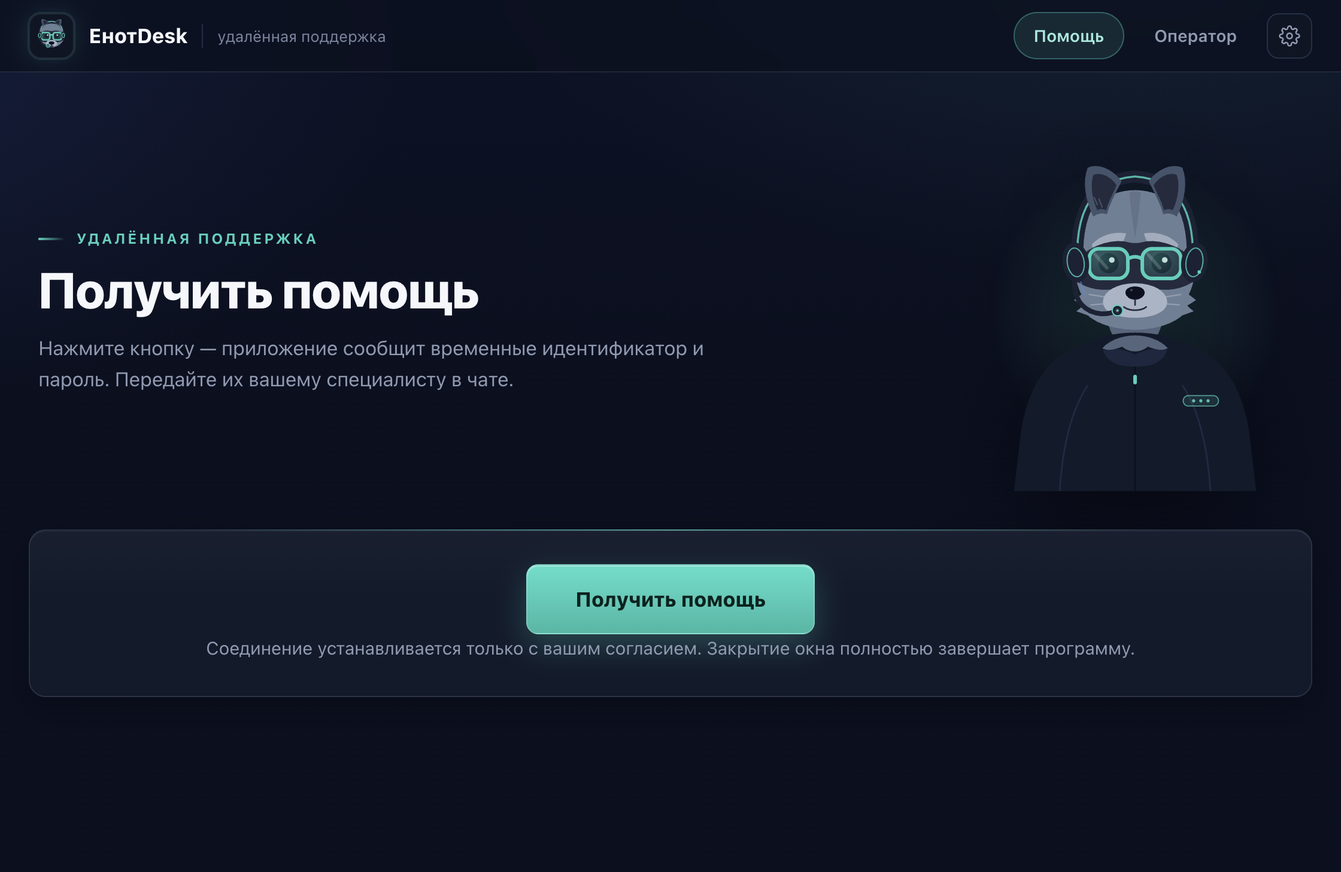
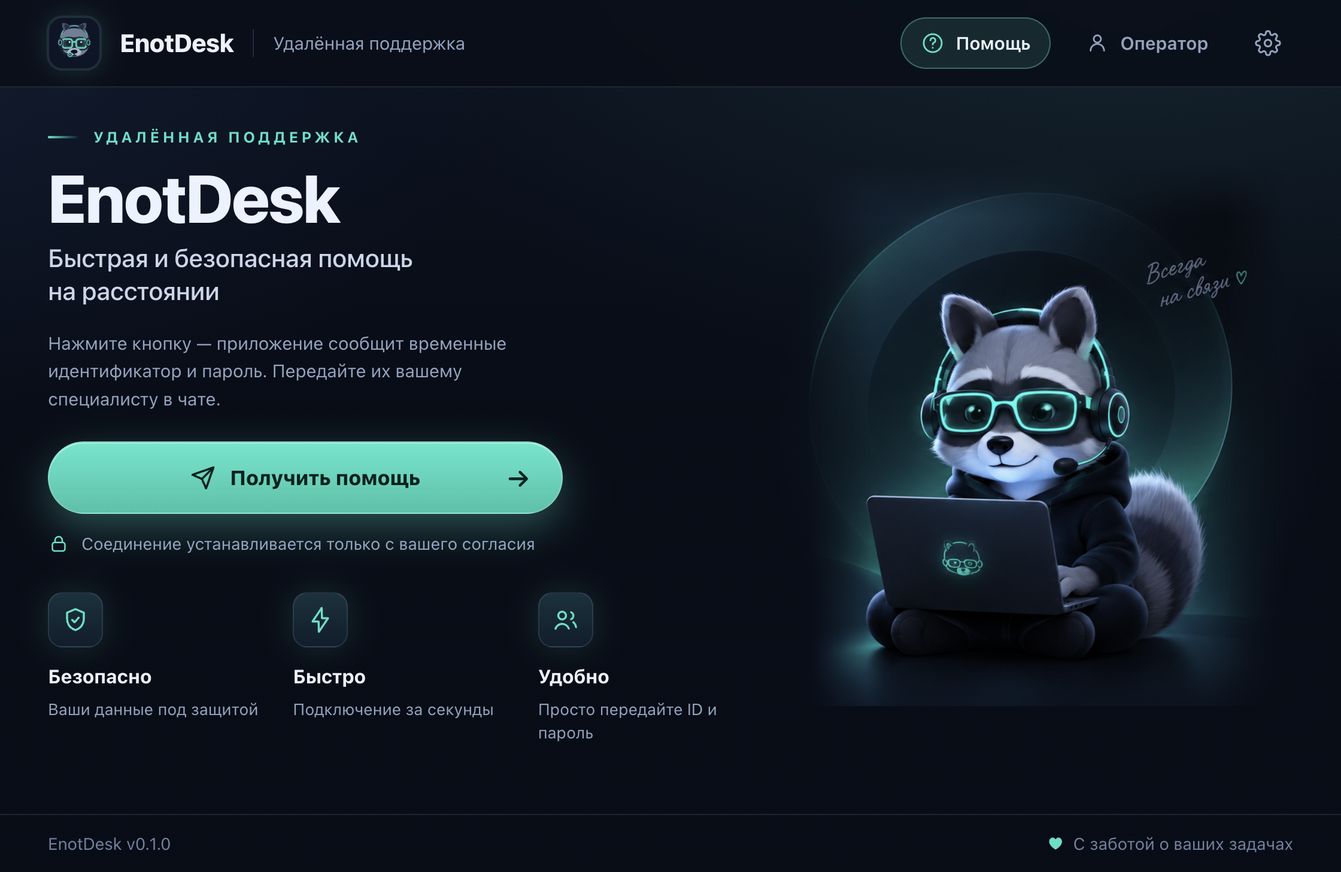
T06: выкладка и приёмка — сайт и клиент обновлены, слепая проверка, память, ADR 0009-0012

diff --git a/.autopilot/state.js b/.autopilot/state.js
@@ -9,8 +9,8 @@ window.STATE =
   "briefFile": "2026-09-11-brief.md",
   "memoryFile": "AGENTS.md",
   "startedAt": "2026-09-11T16:53:58+03:00",
-  "updatedAt": "2026-09-11T17:23:41+03:00",
-  "finishedAt": null,
+  "updatedAt": "2026-09-11T17:45:50+03:00",
+  "finishedAt": "2026-09-11T17:45:50+03:00",
   "stages": [
     {
       "id": "preflight",
@@ -46,23 +46,29 @@ window.STATE =
     },
     {
       "id": "build",
-      "status": "active",
+      "status": "done",
       "startedAt": "2026-09-11T16:57:12+03:00",
-      "note": "4 из 6 тасков готовы; волна 3 (05) в работе"
+      "note": "6 из 6 тасков готовы",
+      "finishedAt": "2026-09-11T17:45:50+03:00"
     },
     {
       "id": "review",
-      "status": "pending"
+      "status": "done",
+      "startedAt": "2026-09-11T17:45:50+03:00",
+      "finishedAt": "2026-09-11T17:45:50+03:00",
+      "note": "волны 1–3 проверены независимыми ревьюерами, ремонты подтверждены"
     },
     {
       "id": "final",
-      "status": "pending"
+      "status": "done",
+      "startedAt": "2026-09-11T17:45:50+03:00",
+      "finishedAt": "2026-09-11T17:45:50+03:00"
     }
   ],
   "requirements": {
     "total": 10,
-    "done": 0,
-    "inTicket": 10,
+    "done": 10,
+    "inTicket": 0,
     "inSpec": 0,
     "placeholder": 0,
     "deferred": 0,
@@ -203,11 +209,17 @@ window.STATE =
         "docs/BUILD.md",
         "README.md"
       ],
-      "status": "in-progress",
+      "status": "done",
       "retries": 0,
       "repairs": 0,
       "handoffs": 0,
-      "startedAt": "2026-09-11T17:23:41+03:00"
+      "startedAt": "2026-09-11T17:23:41+03:00",
+      "finishedAt": "2026-09-11T17:33:10+03:00",
+      "commit": "T05",
+      "tests": {
+        "passed": 84,
+        "failed": 0
+      }
     },
     {
       "id": "06",
@@ -231,10 +243,17 @@ window.STATE =
       "zone": [
         "сервер"
       ],
-      "status": "pending",
+      "status": "done",
       "retries": 0,
       "repairs": 0,
-      "handoffs": 0
+      "handoffs": 0,
+      "startedAt": "2026-09-11T17:33:10+03:00",
+      "finishedAt": "2026-09-11T17:45:50+03:00",
+      "commit": "FINAL",
+      "tests": {
+        "passed": 84,
+        "failed": 0
+      }
     }
   ],
   "singlePass": null,
@@ -245,6 +264,14 @@ window.STATE =
     "emptyEnv": []
   },
   "additions": [],
-  "coverage": null,
-  "blind": null
+  "coverage": {
+    "found": 5,
+    "fixed": 5,
+    "deferred": 0,
+    "note": "G2: скорость отдачи, состав карточек, порог веса, BRAND.md в структуре, бабл эталона — все закрыты"
+  },
+  "blind": {
+    "verdict": "все пункты брифа реализованы; отличия от макетов только осознанные: реальная версия v0.1.0 вместо выдуманной v1.0.0, кнопка «Оператор» сохранена ради функционала, HEAD у файлового роута не реализован (GET/Range работают)",
+    "drift": 0
+  }
 }

diff --git a/AGENTS.md b/AGENTS.md
@@ -4,60 +4,65 @@
 Portable remote support for Windows, macOS and Linux. Client runs only for an attended support session, communicates temporary ID/password through the user's existing chat, and closing terminates remote access. Dark technological branding, strong professional raccoon wearing glasses. Team roles, shared address book, invitations and audit are first-release requirements.
 
 ## Current state
-Working MVP: Node server (control plane + WS signaling) and Electron desktop client with real native input on macOS; Win/X11 adapters and cross-machine video untested. `archive/mockup/index.html` is an archived visual mockup — not the application.
+Working MVP: Node server (control plane + WS signaling) и Electron-клиент (`desktop/` → `client/`) с реальным нативным вводом на macOS; Win/X11 адаптеры и видео между машинами не проверены. Новый визуал клиента и страниц сервера по эталонам `.autopilot/enotdesk-redesign/reference`; вес клиента 117,6 МБ (−9,35 %), локали ru/en, старт до окна ≈1,2 с. Репозиторий: `client/` (бывший `desktop/`), `server/`, `build/` (electron-builder.yml), `assets/`, `scripts/`, `docs/`, `archive/mockup/` — старый макет, не приложение.
 
 ## Commands
 - `npm install` — deps (node>=24.12; koffi, ws exact-pinned; electron, electron-builder dev).
-- `npm test` — node:test, 84 tests, server+client, no Electron needed.
+- `npm test` — node:test, 84 tests, server+client, no Electron needed (проверено фактически: 84/84 pass).
 - `npm run server` — server on `127.0.0.1:8080`; `GET /api/v1/health` → `{ok:true}`.
 - `npm run bootstrap` — interactive CLI creating first admin (refuses to overwrite existing); DB = `ENOT_DB` or `enotdesk.db`.
 - `npm start` — Electron client (`EDESK_SMOKE=1 npx electron@44.3.0 client/main.mjs --no-sandbox` for smoke run).
-- `npm run smoke:local` — full local cycle: bootstrap → login → invite/accept → session → claim → consent → WS relay offer/answer → end.
-- `npm run pack:mac` — electron-builder zip into `dist/` (`pack:win`, `pack:linux` analogues); `npm run icons` — macOS only (sips/iconutil).
+- `npm run smoke:local` — full local cycle: bootstrap → login → invite/accept → session → claim → consent → WS relay offer/answer → end (проверено фактически: PASS).
+- `npm run pack:mac` / `pack:win` / `pack:linux` — electron-builder с `build/electron-builder.yml`, артефакты в `dist/` (macOS arm64 проверена, zip на месте; Win/Linux конфиг готов, не прогонялись).
+- `npx electron@44.3.0 scripts/make-mascot.mjs` — кропы `mascot-app.png`, `mascot-site.png`, `icon-source.png` из эталонов `.autopilot/enotdesk-redesign/reference/{app,site}.png` (Electron nativeImage, без зависимостей; координаты подобраны вручную).
+- `npm run icons` (`scripts/make-icons.mjs`) — `icon.png`/`icon.icns`/`icon.ico` из `assets/icon-source.png`; только macOS (sips/iconutil), на других ОС честно падает.
 
 ## Structure
 ```
-server/          control plane: app.mjs (all HTTP /api/v1 + WS /signal), db.mjs (node:sqlite), crypto.mjs (scrypt, tokens), bootstrap.mjs, test/
+server/          control plane: app.mjs (HTTP /api/v1 + страницы + WS /signal), db.mjs (node:sqlite), crypto.mjs (scrypt, tokens), bootstrap.mjs, test/
 client/          Electron: main.mjs (window, tokens, WS, input wiring), preload.cjs (window.enot bridge)
-client/lib/      Electron-free shims: api.mjs, signal.mjs, protocol.mjs, input-pipeline.mjs, native-input.mjs
+client/lib/      Electron-free shims: api.mjs, signal.mjs, protocol.mjs, input-pipeline.mjs, native-input.mjs, credentials.mjs, invites.mjs, server-url.mjs
 client/renderer/ UI (index.html, app.js, styles.css) — no nodeIntegration
-client/test/     node:test for the lib shims
-assets/          enot-mascot.svg, enot-icon.svg, icon.png (+.icns/.ico), README.md
+client/test/     node:test для lib-шимов + renderer-contract
+assets/          enot-mascot.svg, enot-icon.svg, mascot-app.png, mascot-site.png, icon-source.png, icon.png (+.icns/.ico), README.md
 build/           electron-builder.yml + README.md
-scripts/         deploy-server.sh, install-server.sh, smoke-local.mjs, smoke-remote.mjs, make-icons.mjs
-docs/            SESSION_PROTOCOL.md, SERVER.md, BUILD.md, adr/0001-original-electron-webrtc.md
+scripts/         deploy-server.sh, install-server.sh, smoke-local.mjs, smoke-remote.mjs, make-icons.mjs, make-mascot.mjs
+docs/            SESSION_PROTOCOL.md, SERVER.md, BUILD.md, screenshot-main.png, adr/
 archive/mockup/  старый корневой макет (не приложение) + README
 ```
 
 ## Key files
-- `server/app.mjs` — `createServer({dbPath,host,port,leaseMs,heartbeatMs,limits}) -> {start,close}`; sole service entry, prod and tests use it.
-- `server/main.mjs` — CLI wrapper: `bootstrap` arg or server start from `ENOT_*` env.
-- `client/main.mjs` — main process: owns authToken/hostToken, WS client, input gate, `desktopCapturer`; renderer sees only `window.enot`.
+- `server/app.mjs` — `createServer({dbPath,host,port,leaseMs,heartbeatMs,limits,distDir}) -> {start,close}`; sole service entry, prod and tests use it; страницы `/downloads` и `/invite`, бренд-статика `/brand/:name`, файлы сборок `/downloads-files/:name` (Content-Length, Range → 206/416).
+- `server/main.mjs` — CLI wrapper: `bootstrap` arg or server start from `ENOT_*` env (включая `ENOT_DIST_DIR`).
+- `client/main.mjs` — main process: owns authToken/hostToken, WS client, input gate, `desktopCapturer`; renderer sees only `window.enot`; версия в `getSettings()`: `app.isPackaged ? app.getVersion() : pkg.version` (D02).
 - `client/lib/input-pipeline.mjs` — `createInputPipeline({gate,nativeInput}).handle(evOrRawString,bounds)`: parse → validate → gate → dispatch; single wiring used by main and tests.
 - `client/lib/native-input.mjs` — lazy koffi adapters: macOS CoreGraphics / Win SendInput / X11 XTest; missing koffi/OS API → inert adapter with honest status; Wayland → `wayland-unsupported-control`.
 - `client/lib/protocol.mjs` — `INPUT_KEYS` Set is the single allowlist of keys (renderer gets it via `permissions().inputKeys`); also `validateInputEvent`, `validateOutgoingSignal`, `createInputGate`.
+- `build/electron-builder.yml` — `directories.output: dist`; `files` = `client/**` (без `test/`) + рантайм-ассеты (`enot-*.svg`, `mascot-app.png`) + `package.json`; `asarUnpack: koffi`; `compression: maximum`; `electronLanguages: [ru,en]`; иконки `assets/icon.*`.
+- `assets/mascot-app.png` (690×780) — hero рендерера `../../assets/mascot-app.png`; `assets/mascot-site.png` (736×372) — сервер `/brand/mascot-site.png` (allowlist); в растры запечены бабл и подпись — не дублировать в HTML (D01); `assets/icon-source.png` — источник иконки (`npm run icons`).
 
 ## Architecture
-Client `POST /sessions` (unauthenticated, rate-limited) → gets `sessionId` (9 digits) + `password` + `hostToken`; lease starts immediately, host refreshes via WS `heartbeat` every 5s, timeout 20s. Operator `claim` (bearer admin/operator) → host gets `claim` → host `decision allow` → both get `approved`; both connect WS `/signal`, one socket per participant, duplicate rejected. Server relays only offer/answer/ICE (host is offerer) between approved participants; video over WebRTC, input over DataChannel → input-pipeline → koffi native dispatch. RBAC: admin/operator/auditor, checked per-request; auditor read-only; last active admin protected. Audit + history are append-only server tables. Signal loss or `end` invalidates session immediately, input resets (releases held keys/buttons).
+Client `POST /sessions` (unauthenticated, rate-limited) → gets `sessionId` (9 digits) + `password` + `hostToken`; lease starts immediately, host refreshes via WS `heartbeat` every 5s, timeout 20s. Operator `claim` (bearer admin/operator) → host gets `claim` → host `decision allow` → both get `approved`; both connect WS `/signal`, one socket per participant, duplicate rejected. Server relays only offer/answer/ICE (host is offerer) between approved participants; video over WebRTC, input over DataChannel → input-pipeline → koffi native dispatch. RBAC: admin/operator/auditor, checked per-request; auditor read-only; last active admin protected. Audit + history are append-only server tables. Signal loss or `end` invalidates session immediately, input resets (releases held keys/buttons). Версия в футере — только фактическая (`getSettings().version`), без выдуманных чисел.
 
 ## Развёртывание
 - `scripts/deploy-server.sh` (локально): tarball `server/`+`package*.json`+`install-server.sh` → scp в `/tmp/enotdesk-install/` → установщик на сервере под nohup (лог `install.log`, rc-маркер, poll до 10 мин) → health изнутри и снаружи; env `ENOT_DEPLOY_HOST` (обязателен), `ENOT_DEPLOY_USER` (root), `ENOT_DEPLOY_PASSWORD` (пусто = SSH-ключ; задан = нужен sshpass), `ENOT_DEPLOY_PORT` (22), `ENOT_PORT` (8080), `ENOT_DEPLOY_PROTO` (http) — см. `.env.example`.
 - `scripts/install-server.sh` (на сервере, root, Debian/Ubuntu): флаги `--dry-run`, `--update <tar>`, `--uninstall`, `--purge-data`, `--open-firewall`, `--help`; релизы `/opt/enotdesk/releases/<UTC>-<sha12>`, symlink `/opt/enotdesk/current`, env `/etc/enotdesk/enotdesk.env` (0600), БД `/var/lib/enotdesk/enotdesk.db`, unit `/etc/systemd/system/enotdesk.service`, пользователь `enotdesk` (system, nologin); Node 24 — официальный tarball nodejs.org (`NODE_VERSION` 24.12.0, SHA256, `/opt/node-24`), apt/NodeSource не используются (D01).
+- `ENOT_DIST_DIR` — каталог сборок для `/downloads`: установщик пишет его в env-файл (дефолт `/var/lib/enotdesk/dist`), существующее значение сохраняется при `--update`.
 - Внешняя проверка: `ENOT_BASE_URL=... ENOT_ADMIN_LOGIN=... ENOT_ADMIN_PASSWORD=... node scripts/smoke-remote.mjs` — полный цикл против живого сервера.
-- `docs/SERVER.md` — установка/управление/обновление/бэкап/TLS/bootstrap/диагностика; `docs/BUILD.md` — сборки клиента (macOS проверена, Win/Linux не прогонялись).
+- `docs/SERVER.md` — установка/управление/обновление/бэкап/TLS/bootstrap/диагностика; `docs/BUILD.md` — сборки клиента и фактические замеры веса/старта (macOS проверена, Win/Linux не прогонялись).
 
 ## Conventions
-Server is pure ESM `.mjs`, node:sqlite (experimental warning is normal), no frameworks — only `ws` + `koffi`. Electron: `contextIsolation: true`, `nodeIntegration: false`, `sandbox: true`; renderer talks only via preload bridge `window.enot`. Keys/buttons/scroll/SDP sizes are allowlisted and bounded (protocol.mjs); file serving from `dist/` is name-allowlisted, traversal rejected. Unavailable platform features report honest status (`native-unavailable`, `wayland-unsupported-control`), never fake success. Russian user-facing messages; frozen API contracts live in `.autopilot/enotdesk/interfaces.md`.
+Server is pure ESM `.mjs`, node:sqlite (experimental warning is normal), no frameworks — only `ws` + `koffi`. Electron: `contextIsolation: true`, `nodeIntegration: false`, `sandbox: true`; renderer talks only via preload bridge `window.enot`. Keys/buttons/scroll/SDP sizes are allowlisted and bounded (protocol.mjs); file serving from `ENOT_DIST_DIR` is name-allowlisted, traversal rejected. Unavailable platform features report honest status (`native-unavailable`, `wayland-unsupported-control`), never fake success. Russian user-facing messages; frozen API contracts live in `.autopilot/enotdesk-redesign/interfaces.md`.
 
 ## Environment
-`ENOT_HOST`, `ENOT_PORT`, `ENOT_DB`, `ENOT_PUBLIC_URL`, `ENOT_TURN_URLS`, `ENOT_TURN_USERNAME`, `ENOT_TURN_PASSWORD` (see `.env.example`) — never commit values; деплой также читает `ENOT_DEPLOY_HOST/USER/PORT/PASSWORD/PROTO` и `ENOT_ADMIN_LOGIN/PASSWORD`; desktop also reads `EDESK_SMOKE=1`.
+`ENOT_HOST`, `ENOT_PORT`, `ENOT_DB`, `ENOT_DIST_DIR`, `ENOT_PUBLIC_URL`, `ENOT_TURN_URLS`, `ENOT_TURN_USERNAME`, `ENOT_TURN_PASSWORD` (see `.env.example`) — never commit values; деплой также читает `ENOT_DEPLOY_HOST/USER/PORT/PASSWORD/PROTO` и `ENOT_ADMIN_LOGIN/PASSWORD`; desktop also reads `EDESK_SMOKE=1`.
 
 ## Tests
-`node --test server/test/*.test.mjs client/test/*.test.mjs`; single file: `node --test server/test/session-flow.test.mjs`. `smoke:local` covers the whole control-plane + signaling cycle on a temp DB in ephemeral port. `node scripts/smoke-remote.mjs` — внешний цикл (HTTP+WS) против развёрнутого сервера, деактивирует временного оператора. NOT covered: real input injection into OS, WebRTC video across machines, Win/X11 adapters (inert only), Electron UI smoke — report those honestly, don't fake.
+`node --test server/test/*.test.mjs client/test/*.test.mjs` — 84 теста (server HTTP/WS + client lib-шимы + renderer-contract), фактически зелёные; single file: `node --test server/test/session-flow.test.mjs`. `smoke:local` covers the whole control-plane + signaling cycle on a temp DB in ephemeral port. `node scripts/smoke-remote.mjs` — внешний цикл (HTTP+WS) против развёрнутого сервера, деактивирует временного оператора. NOT covered: real input injection into OS, WebRTC video across machines, Win/X11 adapters (inert only), Electron UI smoke — report those honestly, don't fake.
 
 ## Pitfalls
-koffi 3.x: `lib.func(...)` with full C signature strings; adapters load lazily, any load failure must fall back to inert, never throw. `npm run icons` uses sips/iconutil — macOS only, exits on other OS. `.autopilot/` is committed (except graphify-out/, which is gitignored). `archive/mockup/` (index.html/app.js/styles.css) — archived mockup, do not mistake for the app. electron 44.3.0 and koffi 3.2.1 are exact-pinned — do not bump casually; `asarUnpack` for koffi is required in builds. Input decision belongs to main via WS-state gate (`gate.isOpen()`), never trust renderer claims. NodeSource/apt на некоторых серверах зависает — Node ставится tarball-ом nodejs.org с SHA256. `deploy-server.sh` создаёт и удаляет `deploy.env` (0600) сам, значения `ENOT_*` не попадают в argv ssh/bash. ufw открывается только с `--open-firewall` и только если он активен, иначе установщик честно сообщает.
+koffi 3.x: `lib.func(...)` with full C signature strings; adapters load lazily, any load failure must fall back to inert, never throw. `npm run icons` uses sips/iconutil — macOS only, exits on other OS; `make-mascot.mjs` требует эталоны `.autopilot/enotdesk-redesign/reference/{app,site}.png` и Electron. `.autopilot/` is committed (except graphify-out/, which is gitignored). `archive/mockup/` (index.html/app.js/styles.css) — archived mockup, do not mistake for the app. electron 44.3.0 and koffi 3.2.1 are exact-pinned — do not bump casually; `asarUnpack` for koffi is required in builds. Input decision belongs to main via WS-state gate (`gate.isOpen()`), never trust renderer claims. NodeSource/apt на некоторых серверах зависает — Node ставится tarball-ом nodejs.org с SHA256. `deploy-server.sh` создаёт и удаляет `deploy.env` (0600) сам, значения `ENOT_*` не попадают в argv ssh/bash. ufw открывается только с `--open-firewall` и только если он активен, иначе установщик честно сообщает.
 
 ## Autopilot
-Full / deep run tracked in `.autopilot/enotdesk/`, live state in `.autopilot/state.js`. User requirements may not be silently deferred. Code changes delegated to executors. No deployment/publication or secret collection. Tests and actual startup required; native platform availability must be reported honestly.
+Runs tracked in `.autopilot/enotdesk/` and `.autopilot/enotdesk-redesign/` (текущий редизайн), live state in `.autopilot/state.js`. User requirements may not be silently deferred. Code changes delegated to executors. No deployment/publication or secret collection. Tests and actual startup required; native platform availability must be reported honestly.
 <!-- autopilot:end -->

diff --git a/.autopilot/enotdesk-redesign/manifest.md b/.autopilot/enotdesk-redesign/manifest.md
@@ -4,18 +4,18 @@
 
 | ID | Из брифа | Статус | Основание / где |
 |---|---|---|---|
-| R01 | «изменяем визуал … приложения … /Users/admin/Downloads/удалёнкапрограмма.png» | open | Редизайн клиента по reference/app.png |
-| R02 | «изменяем визуал … сайта … /Users/admin/Downloads/удалёнкасайт.png» | open | Редизайн /downloads по reference/site.png |
-| R03 | «чтоб приложение весело не много чтоб клиент его скачал быстро и запускалось быстро» | open | Меньше вес сборки + быстрый старт; честные цифры |
-| R04 | «функционал сохраняем» | open | Ничего не ломать; полный тестовый контур зелёный |
-| R05 | «маскот который на картинках используем под иконку приложения» | open | Иконка из маскота эталона (кроп из PNG), icns/ico/png |
-| R06 | «визуал красивый и не перегруженый» | open | Чистая иерархия как в эталонах, без визуального шума |
-| R07 | «весь проект распределяем по папкам … серверная часть отдельно сборка отдельно клиент отдельно документы» | open | Структура: client/, server/, build/, docs/, assets/, scripts/, archive/ |
-| R08i | *(подразумевается)* шапка с «Помощь/Оператор», hero-CTA, чипы преимуществ, карточки платформ, 4 шага, футер с версией | open | Как на эталонах |
-| R09i | *(подразумевается)* иконки платформ (Apple/Windows/Linux) и «Скоро будет» на карточках | open | Как на эталоне сайта |
-| R10i | *(подразумевается)* версия в футере и «С заботой о ваших задачах» | open | Как на эталонах |
-| D02 | В dev `app.getVersion()` возвращает версию Electron (44.3.0), не продукта | in-ticket | Версия: `app.isPackaged ? app.getVersion() : version из package.json`; футер показывает 0.1.0 (R10i) |
-| D01 | В кропы маскота запечены подписи как пиксели: в mascot-app.png — «Всегда на связи ♥», в mascot-site.png — бабл «Решаем задачи…» и подпись | in-ticket | HTML-дубликаты не делать; ассеты самодостаточны (R01,R02) |
+| R01 | «изменяем визуал … приложения … /Users/admin/Downloads/удалёнкапрограмма.png» | done | Редизайн клиента по reference/app.png |
+| R02 | «изменяем визуал … сайта … /Users/admin/Downloads/удалёнкасайт.png» | done | Редизайн /downloads по reference/site.png |
+| R03 | «чтоб приложение весело не много чтоб клиент его скачал быстро и запускалось быстро» | done | Меньше вес сборки + быстрый старт; честные цифры |
+| R04 | «функционал сохраняем» | done | Ничего не ломать; полный тестовый контур зелёный |
+| R05 | «маскот который на картинках используем под иконку приложения» | done | Иконка из маскота эталона (кроп из PNG), icns/ico/png |
+| R06 | «визуал красивый и не перегруженый» | done | Чистая иерархия как в эталонах, без визуального шума |
+| R07 | «весь проект распределяем по папкам … серверная часть отдельно сборка отдельно клиент отдельно документы» | done | Структура: client/, server/, build/, docs/, assets/, scripts/, archive/ |
+| R08i | *(подразумевается)* шапка с «Помощь/Оператор», hero-CTA, чипы преимуществ, карточки платформ, 4 шага, футер с версией | done | Как на эталонах |
+| R09i | *(подразумевается)* иконки платформ (Apple/Windows/Linux) и «Скоро будет» на карточках | done | Как на эталоне сайта |
+| R10i | *(подразумевается)* версия в футере и «С заботой о ваших задачах» | done | Как на эталонах |
+| D02 | В dev `app.getVersion()` возвращает версию Electron (44.3.0), не продукта | done | Версия: `app.isPackaged ? app.getVersion() : version из package.json`; футер показывает 0.1.0 (R10i) |
+| D01 | В кропы маскота запечены подписи как пиксели: в mascot-app.png — «Всегда на связи ♥», в mascot-site.png — бабл «Решаем задачи…» и подпись | done | HTML-дубликаты не делать; ассеты самодостаточны (R01,R02) |
 
 ## Самобрифинг (полный автомат)
 

diff --git a/docs/adr/0009-folder-layout-client-server-build.md b/docs/adr/0009-folder-layout-client-server-build.md
@@ -1,0 +1,17 @@
+# ADR 0009: раскладка client/server/build/docs/assets/scripts/archive; конфиг сборки в build/, dist/ в корне
+
+## Контекст
+
+R07 требовал разложить проект по папкам: клиент, сервер, сборка и документы отдельно. План: `desktop/` → `client/`, поле `build` из package.json → `build/electron-builder.yml`, старый корневой макет → `archive/mockup/`. Пути при этом расходятся по package.json (`start`, `test`), build-конфигу (`files`, иконки), docs, README, AGENTS.md и скриптам; выход сборки остаётся в корневом `dist/` (стандарт electron-builder и дефолт `ENOT_DIST_DIR`), сервер и публичные контракты API/WS не меняются.
+
+## Решение
+
+Зафиксирована раскладка: `client/` (main, preload, lib, renderer, test), `server/` (пути не меняются), `build/` (electron-builder.yml + README), `docs/` (включая adr/), `assets/` (весь бренд), `scripts/`, `archive/mockup/`. Артефакты — в корневом `dist/`, конфигурация — в `build/`. Переезд сделан первой волной, отдельным таском от редизайна, с полным прогоном `npm test` и `pack:mac`.
+
+## Почему
+
+Оставить `desktop/` и build-секцию в package.json — отвергнуто: R07 прямо просит разделение, а конфиг сборки внутри package.json смешан с npm-скриптами. Перенести `dist/` в `build/` — отвергнуто: electron-builder и серверный `ENOT_DIST_DIR` по умолчанию смотрят в корневой `dist/`, перенос потребовал бы синхронной правки в двух местах без выигрыша. Совместить переезд с редизайном — отвергнуто: две волны регрессий в одном коммите, диагностика дороже, поэтому сначала структура и зелёные тесты.
+
+## Последствия
+
+Пути к клиенту зашиты в package.json, build-конфиге, документации и скриптах — следующее переименование снова станет массовой правкой в тех же восьми местах, `desktop/` больше не существует. Сервер остаётся независимым от клиента и обновляется отдельно. Забытая при переезде ссылка обнаруживается только при запуске соответствующего скрипта или упаковке, а не при чтении дерева.

diff --git a/docs/adr/0010-mascot-raster-crops-baked-captions.md b/docs/adr/0010-mascot-raster-crops-baked-captions.md
@@ -1,0 +1,17 @@
+# ADR 0010: маскот — растровые кропы эталонов, подписи запечены в пиксели (D01)
+
+## Контекст
+
+R05: маскот с эталонов становится иконкой; генерации 3D-арта нет, внешние сервисы вне рамок. План: `scripts/make-mascot.mjs` на Electron `nativeImage` (без новых зависимостей) вырезает `mascot-app.png`, `mascot-site.png`, `icon-source.png`; подписи «Всегда на связи ♥» и бабл «Решаем задачи…» планировались HTML-текстом рядом с картинкой. Фактический кроп (D01) показал: подписи уже запечены в пиксели вырезанных PNG.
+
+## Решение
+
+Маскот — растровые кропы эталонов; `mascot-app.png` несёт «Всегда на связи ♥», `mascot-site.png` — бабл с подписью. HTML-дубликаты этих подписей не создаются: ассеты самодостаточны. `icon.png/icns/ico` собираются из `icon-source.png` с тёмным фоном штатными `sips`/`iconutil`; `enot-icon.svg` остаётся для шапки/фавикона. Замена арта при появлении оригинала — только файлами в `assets/`, без изменения кода.
+
+## Почему
+
+Генерация или векторизация маскота — отвергнута: нет инструмента генерации арта, вектор не воспроизводит 3D-рендер эталона. Оставить подписи и в HTML — отвергнуто: после кропа это дало бы двойной текст (шум, нарушение R06), а вырезание подписей из растра означало бы потерю части эталона. Иконка из кропа головы/плеч — принята как единственный доступный источник, отдельный арт под иконку никто не рисовал.
+
+## Последствия
+
+Подписи не локализуются, не масштабируются как текст и не читаются скринридером; на узких экранах они уменьшаются вместе с картинкой. Исправить это можно только новым кропом и возвратом текста в HTML. Иконка запечена на тёмном фоне — при светлой теме ОС она не перекрашивается. Когда появится настоящий арт, путь замены — папка `assets/` (плюс правка HTML, если подписи снова станут текстом).

diff --git a/docs/adr/0011-electron-weight-floor-locales.md b/docs/adr/0011-electron-weight-floor-locales.md
@@ -1,0 +1,17 @@
+# ADR 0011: вес сборки упирается в Electron; локали ru/en, maximum-сжатие, минимальный files, рантайм не меняется
+
+## Контекст
+
+R03: сборка должна скачиваться и стартовать быстро, функционал при этом не меняется (R04). План: `compression: maximum`, `electronLanguages: [ru, en]`, минимальный `files`-набор (`client/**`, иконки/лого/маскоты, package.json), `asarUnpack` только для koffi. Фактический замер: zip macOS ~112 МиБ — основной объём даёт сам рантайм Electron, а не код или ассеты.
+
+## Решение
+
+Вес снижается только упаковкой: две локали, максимальное сжатие, минимальный список файлов; функции и ассеты не режутся. Рантайм остаётся Electron; смена рантайма — отдельный продукт и отдельное решение (вне рамок рана). Цифры — только фактические, до/после; обещаний «в разы» нет.
+
+## Почему
+
+Вырезать локали полностью — отвергнуто: экономия единиц МиБ на фоне 112, а `en` нужен для системных строк Electron и диагностики. Резать функциональность или ассеты ради веса — отвергнуто требованием R04. Сменить рантайм на лёгкий — отвергнуто: это переписывание продукта, а не оптимизация; ниже пола Electron в текущей архитектуре не опуститься. `compression: maximum` выбран против обычного: упаковка медленнее, зато артефакт меньше при том же рантайме.
+
+## Последствия
+
+~112 МиБ — достижимый пол без смены рантайма; дальнейшее похудение требует пересмотра ADR 0001. Новый язык интерфейса — правка `electronLanguages` и перепаковка. Минимальный `files` означает: новый файл, не добавленный в список, молча не попадёт в сборку — это ловит `pack:mac` и Electron-смоук, а не `npm test`. «В разы легче» остаётся недостижимым обещанием и не даётся.

diff --git a/docs/adr/0012-version-dev-vs-packaged.md b/docs/adr/0012-version-dev-vs-packaged.md
@@ -1,0 +1,17 @@
+# ADR 0012: версия в футере — app.getVersion() в упаковке и package.json в dev (D02)
+
+## Контекст
+
+R10i: футер показывает фактическую версию — сайт `cfg.version`, приложение `app.getVersion()` через мост; выдуманные 1.0.0 запрещены. План считал `app.getVersion()` единым источником. Фактический dev-прогон (D02) показал: вне упаковки `app.getVersion()` возвращает версию Electron (44.3.0), а не продукта, — футер показывал бы чужую версию.
+
+## Решение
+
+`window.enot.getSettings().version`: в упаковке — `app.getVersion()`, в dev — версия из корневого package.json (0.1.0); версия недоступна — поле не выводится, заглушек нет. Сайт берёт версию из `cfg.version` по тому же принципу «только факт».
+
+## Почему
+
+Всегда брать версию из package.json — отвергнуто: в упаковке источник истины `app.getVersion()` (версия собранного продукта), и она может разойтись с репозиторным package.json. В dev не показывать версию вовсе — отвергнуто: R10i проверяется и в dev, пустой футер выглядит недоделанным. Заглушка 1.0.0 — запрещена требованием прямо. Одна ветка `app.isPackaged ? … : …` — минимальная правка, покрывающая оба режима.
+
+## Последствия
+
+Версия в dev и в упаковке берётся из разных источников и может отличаться, пока package.json не обновлён; bump версии делается в корневом package.json. «Упрощение» до одного `app.getVersion()` возвращает в dev футер с версией Electron (44.3.0). Проверка — Electron-смоук в обоих режимах; lib-тесты без Electron эту ветку не ловят.

diff --git a/.autopilot/enotdesk-redesign/tickets/06-deploy-accept.md b/.autopilot/enotdesk-redesign/tickets/06-deploy-accept.md
@@ -22,3 +22,12 @@
 ## Ход
 
 Фактические результаты дописываются сюда в конец (без секретов).
+
+## Фактические результаты (2026-09-11)
+
+- Сервер обновлён `deploy-server.sh`: health локально и снаружи `{"ok":true,"version":"0.1.0"}`.
+- Новый клиент загружен в `/var/lib/enotdesk/dist/EnotDesk-mac-arm64.zip` = **117 565 087 Б** (был 129 691 163 Б, −9,35 %); `/api/v1/downloads` отдаёт новый размер.
+- Range снаружи: `curl -r 0-1023` → **206**, 1024 байта.
+- `smoke-remote.mjs` против живого сервера: **PASS** (invite/accept → сессия → claim → consent → relay → end).
+- Живой `/downloads` снят Electron-скриншотом и сверен с эталоном: шапка, hero с маскотом и баблом, чипы, карточки ОС (macOS активна, 112 МБ · arm64; Windows/Linux — «Скоро будет»), 4 шага, футер.
+- Секретов в отчёте нет.
